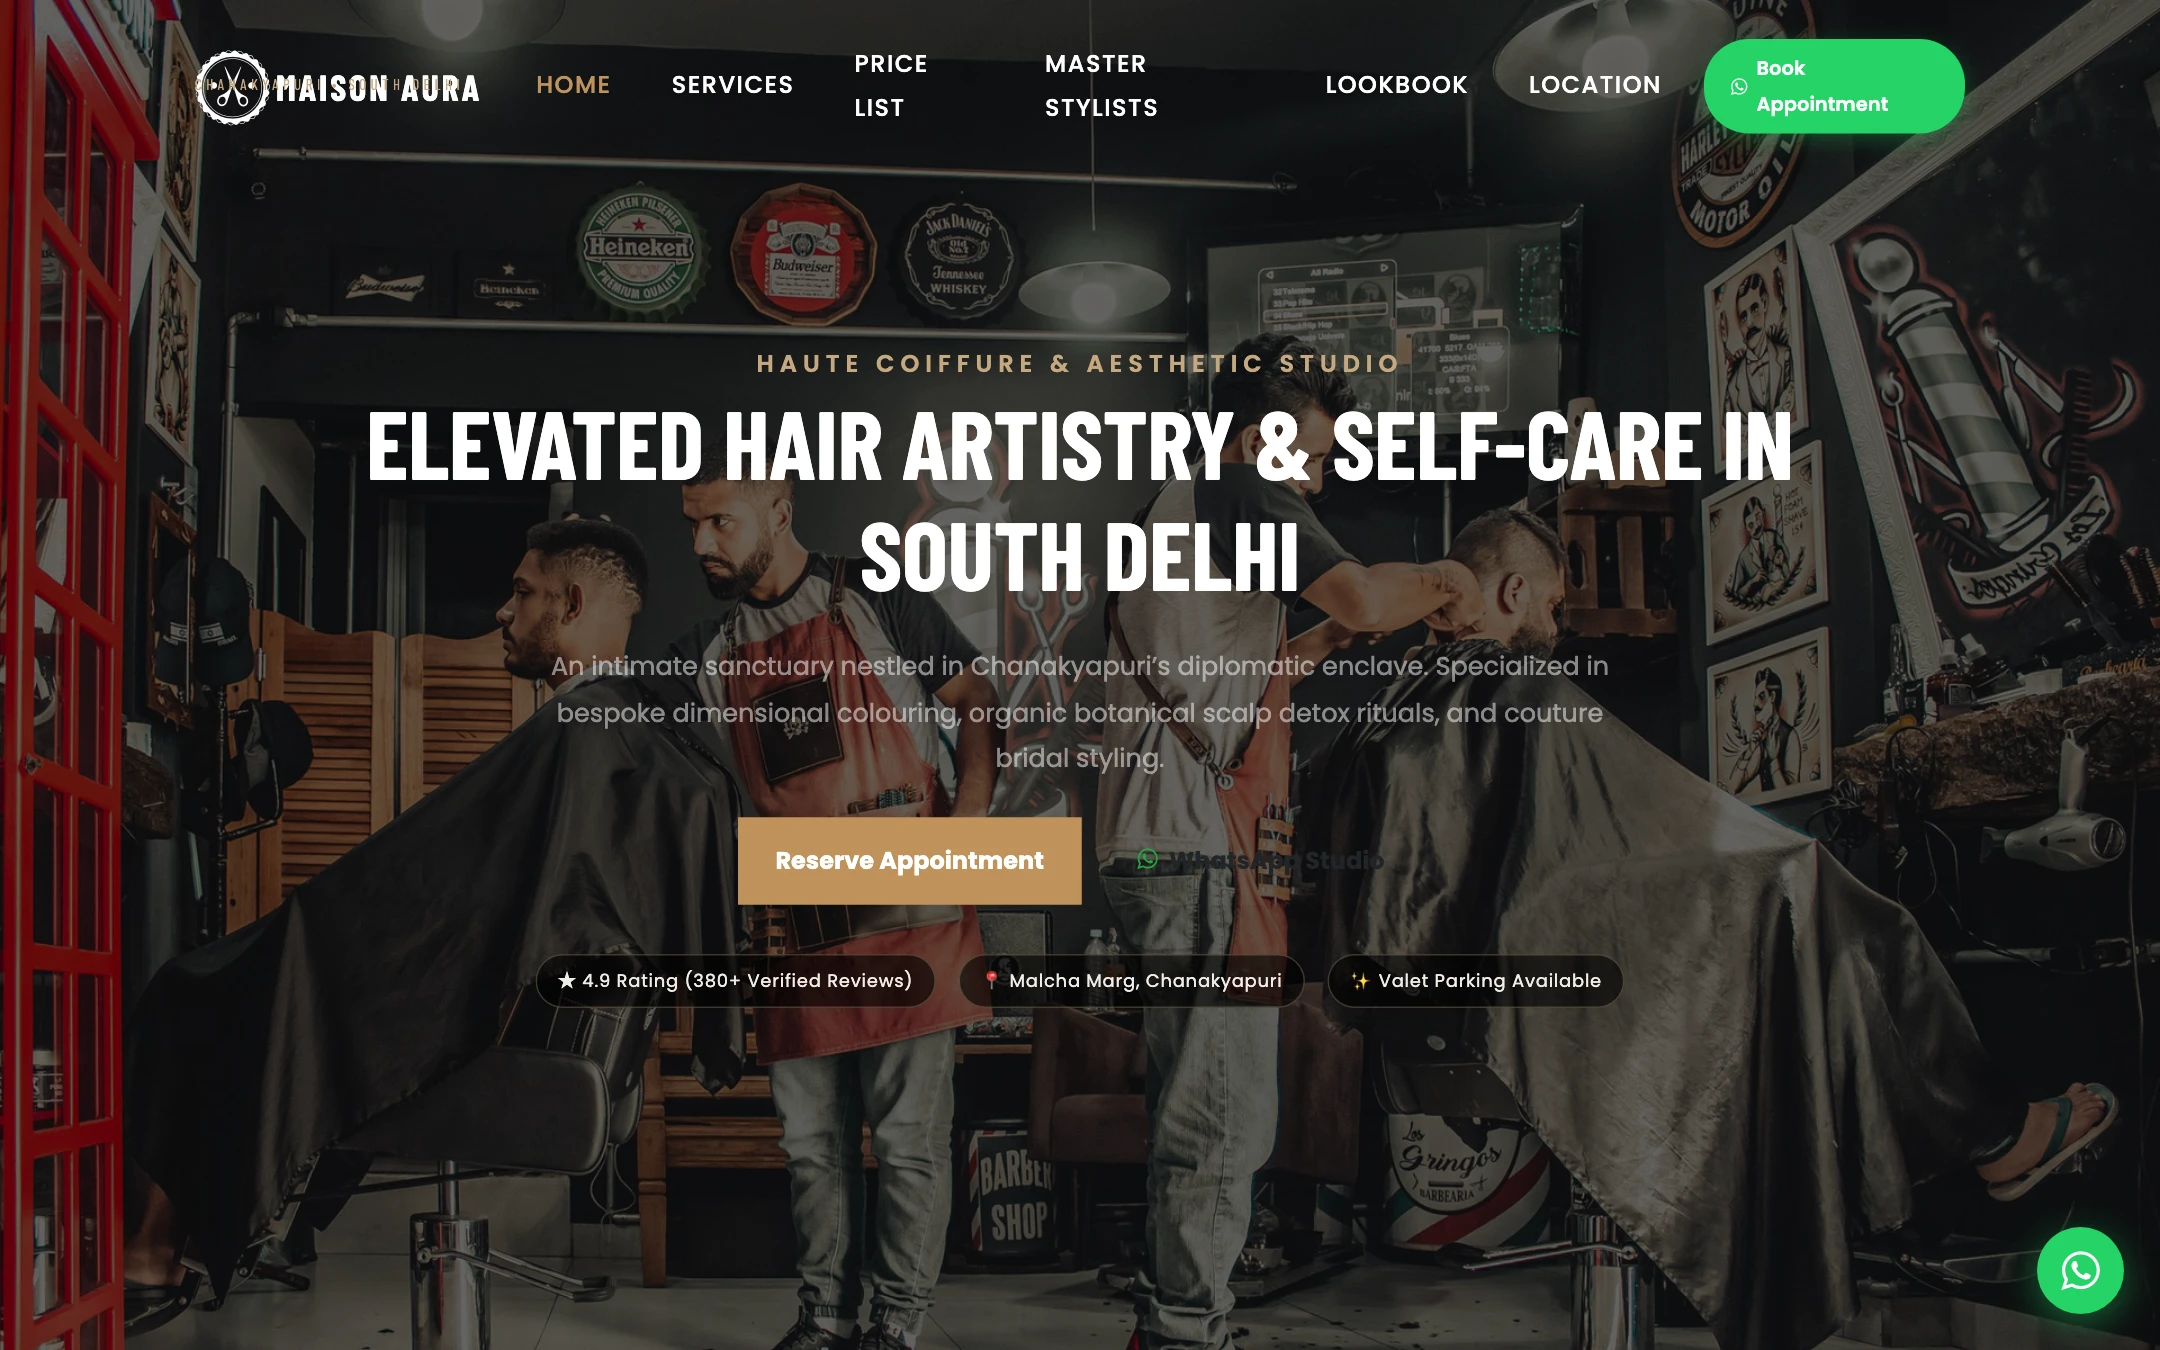
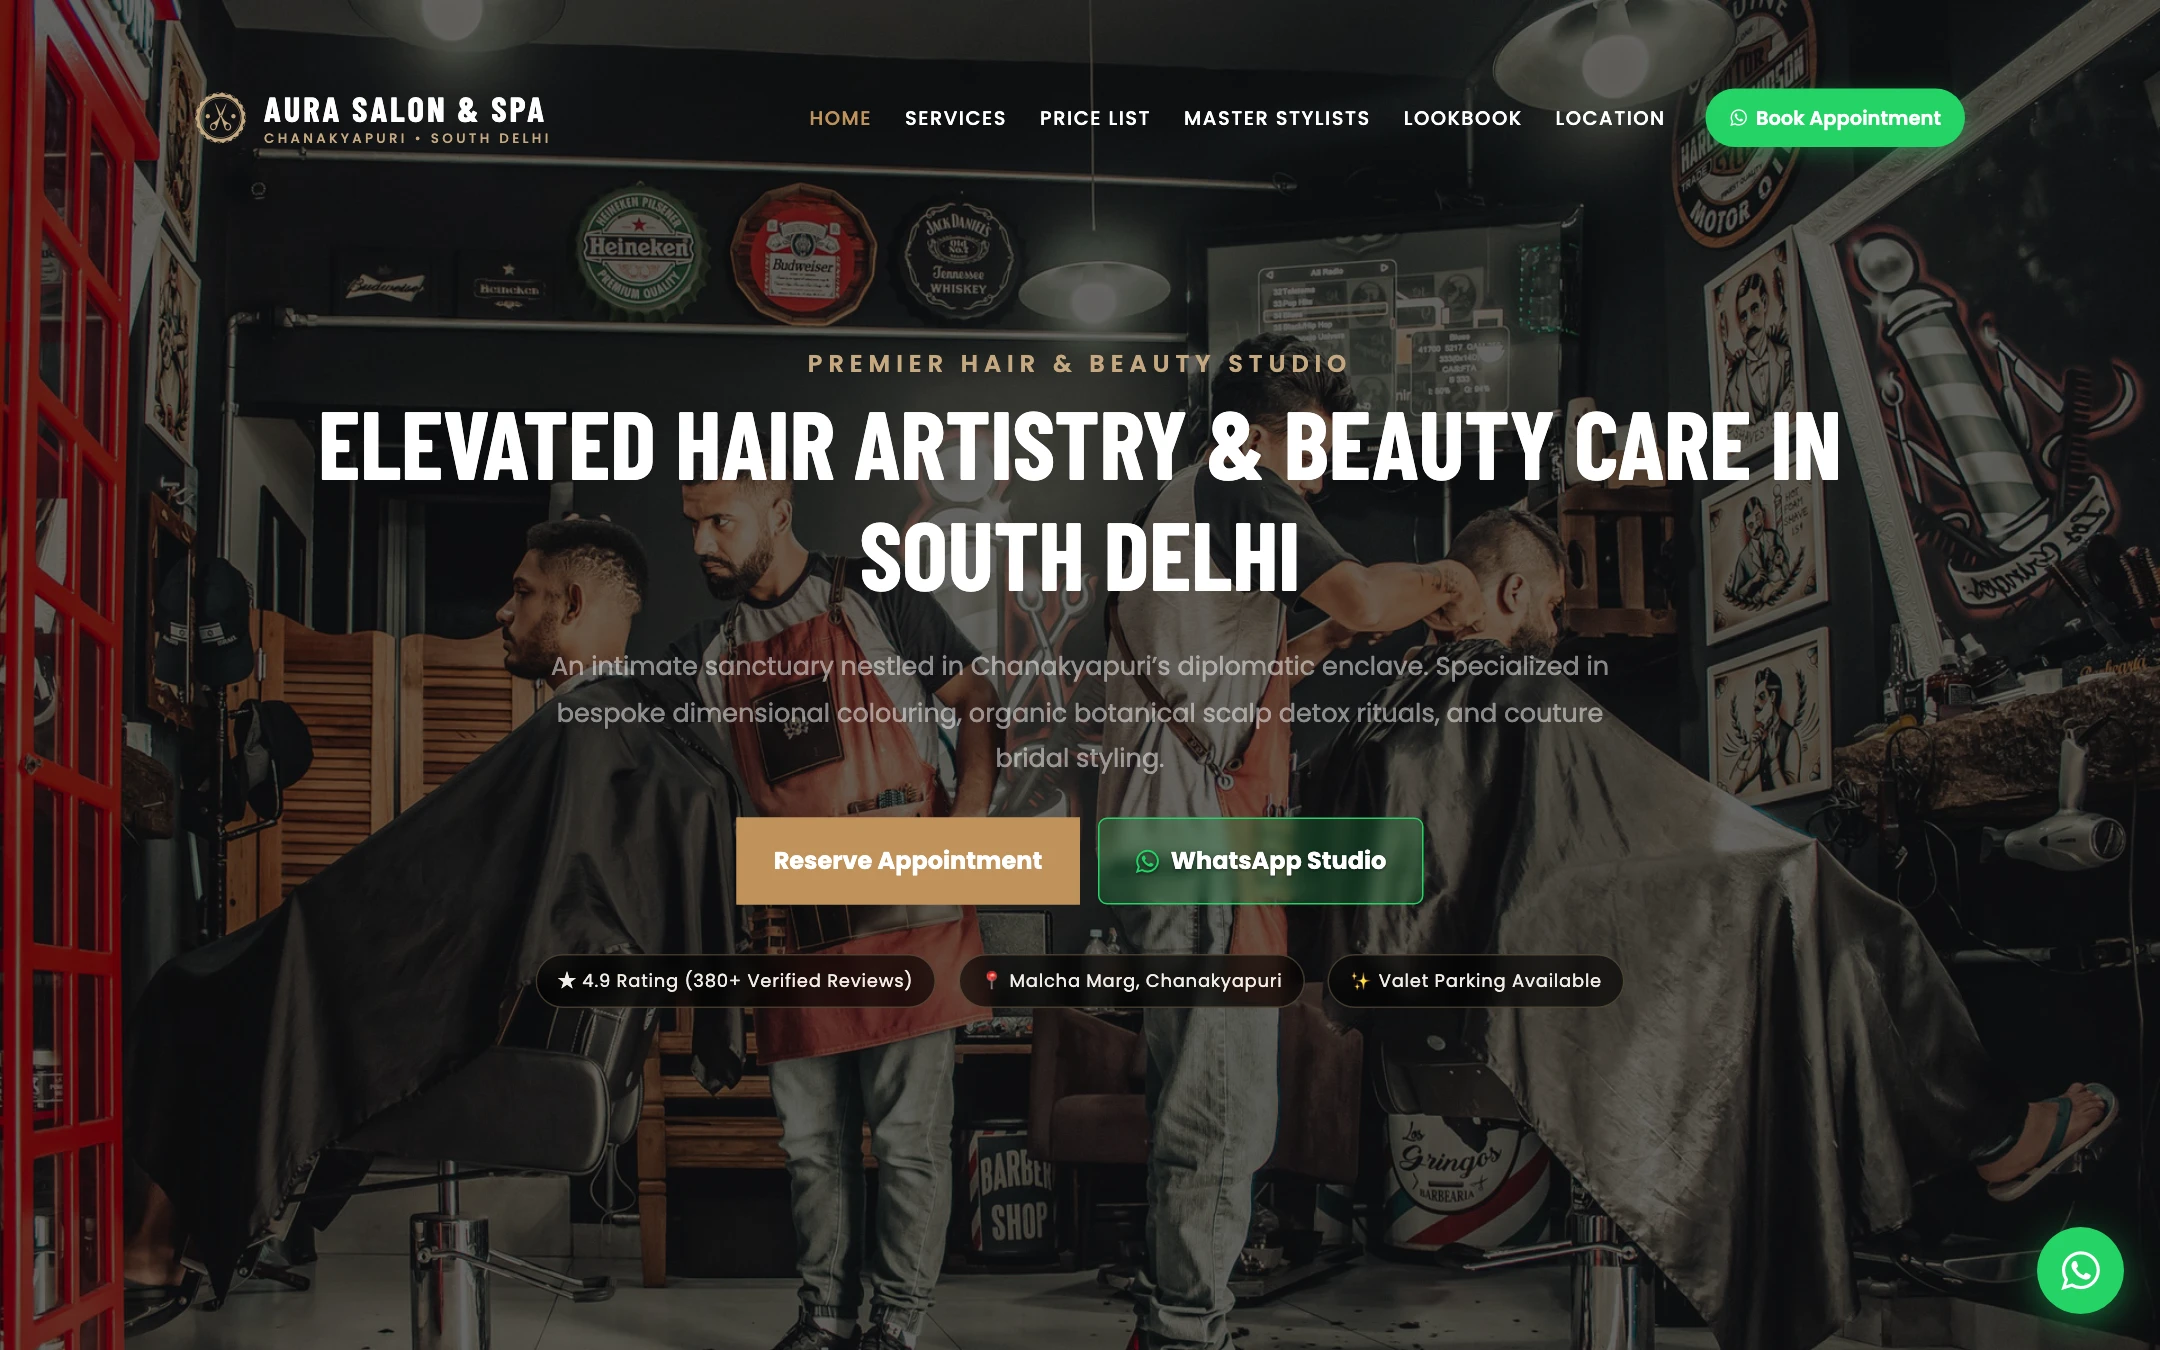
fix(thumbnails): re-capture and synchronize all demo preview thumbnails with updated brand names

diff --git a/demos/salon/index.html b/demos/salon/index.html
@@ -77,7 +77,7 @@
               </p>
 		  				<p class="mb-2">
                 <a href="#booking-section" class="btn btn-primary px-4 py-3 mr-2 mb-2 font-weight-bold">Reserve Appointment</a>
-                <a href="https://wa.me/918279696707?text=Hello%20Maison%20Aura,%20I%20would%20like%20to%20inquire%20about%20a%20salon%20appointment." target="_blank" class="btn btn-hero-whatsapp px-4 py-3 mb-2 font-weight-bold">
+                <a href="https://wa.me/918279696707?text=Hello%20Aura%20Salon,%20I%20would%20like%20to%20inquire%20about%20a%20salon%20appointment." target="_blank" class="btn btn-hero-whatsapp px-4 py-3 mb-2 font-weight-bold">
                   <span class="icon-whatsapp mr-1"></span> WhatsApp Studio
                 </a>
               </p>
@@ -99,7 +99,7 @@
 					<div class="col-md text-center d-flex align-items-stretch">
 						<div class="services-wrap d-flex align-items-center img" style="background-image: url(images/formen.jpg);">
 							<div class="text">
-								<h3>Men's Atelier</h3>
+								<h3>Men's Grooming Lounge</h3>
                 <p class="text-white-50 small mb-2">Bespoke scissor cuts, royal hot towel shaves &amp; beard sculpt</p>
 								<p><a href="#pricing-section" class="btn-custom">Explore Men's Menu <span class="ion-ios-arrow-round-forward"></span></a></p>
 							</div>
@@ -590,7 +590,7 @@
           <a href="../../index.html#contact-vardan" class="vardan-btn-primary">
             Discuss Your Salon's Website
           </a>
-          <a href="https://wa.me/918279696707?text=Hi%20Vardan,%20I%20saw%20your%20Maison%20Aura%20salon%20demo%20and%20would%20like%20to%20discuss%20a%20website%20for%20my%20business." target="_blank" class="vardan-btn-secondary">
+          <a href="https://wa.me/918279696707?text=Hi%20Vardan,%20I%20saw%20your%20Aura%20Salon%20salon%20demo%20and%20would%20like%20to%20discuss%20a%20website%20for%20my%20business." target="_blank" class="vardan-btn-secondary">
             <span class="icon-whatsapp mr-1"></span> WhatsApp Vardan Pal
           </a>
         </div>
@@ -601,7 +601,7 @@
     </section>
 
     <!-- Floating WhatsApp Button -->
-    <a href="https://wa.me/918279696707?text=Hi%20Maison%20Aura,%20I%20would%20like%20to%20book%20an%20appointment%20in%20Chanakyapuri." target="_blank" class="floating-whatsapp-btn" aria-label="Chat on WhatsApp">
+    <a href="https://wa.me/918279696707?text=Hi%20Aura%20Salon,%20I%20would%20like%20to%20book%20an%20appointment%20in%20Chanakyapuri." target="_blank" class="floating-whatsapp-btn" aria-label="Chat on WhatsApp">
       <span class="icon-whatsapp"></span>
       <span class="floating-whatsapp-tooltip">Chat with Reception</span>
     </a>

diff --git a/demos/interior/index.html b/demos/interior/index.html
@@ -147,7 +147,7 @@
         <div class="process-card">
           <div class="process-num">02</div>
           <h3 class="process-title serif-font">Material &amp; Millwork Curation</h3>
-          <p class="process-desc">Direct quarry-level stone selection, custom Italian veneer matching, and custom architectural metalwork built in our dedicated Delhi atelier.</p>
+          <p class="process-desc">Direct quarry-level stone selection, custom Italian veneer matching, and custom architectural metalwork built in our dedicated Delhi studio workshop.</p>
         </div>
         <div class="process-card">
           <div class="process-num">03</div>
@@ -235,7 +235,7 @@
   <!-- Studio Details -->
   <section class="section" id="studio">
     <div class="container" style="text-align: center; max-width: 600px;">
-      <span class="section-tag">VISIT OUR ATELIER</span>
+      <span class="section-tag">VISIT OUR DESIGN STUDIO</span>
       <h3 class="serif-font" style="font-size: 28px; margin-bottom: 12px;">Shanti Niketan Design Studio</h3>
       <p style="color: var(--text-muted); font-size: 15px; margin-bottom: 25px;">
         Studio 4, Shanti Niketan Marg, New Delhi 110021<br>

diff --git a/index.html b/index.html
@@ -182,13 +182,13 @@
         <div class="hero-stage-wrap reveal" id="heroStage" aria-label="Featured website demonstrations">
           <div class="hero-ambient-glow" aria-hidden="true"></div>
           <div class="hero-card-stack">
-            <!-- Back Tertiary Shot (Atelier Eleven) -->
+            <!-- Back Tertiary Shot (Studio Eleven) -->
             <div class="hero-shot-card hero-shot-tertiary">
               <div class="hero-shot-chrome">
                 <span class="dot"></span><span class="dot"></span><span class="dot"></span>
-                <span class="url-pill">atelier11.studio</span>
+                <span class="url-pill">studioeleven.in</span>
               </div>
-              <img src="assets/shots/interior.webp" alt="Atelier Eleven interior architecture website preview" width="1280" height="800" loading="lazy">
+              <img src="assets/shots/interior.webp" alt="Studio Eleven interior architecture website preview" width="1280" height="800" loading="lazy">
             </div>
 
             <!-- Top Primary Shot (Malcha Table) -->

diff --git a/demos/salon/css/delhi-custom.css b/demos/salon/css/delhi-custom.css
@@ -1,5 +1,5 @@
 /* ==========================================================================
-   South Delhi Digital - Maison Aura Custom Aesthetics
+   South Delhi Digital - Aura Salon & Spa Custom Aesthetics
    Crafted by Vardan Pal
    ========================================================================== */
 
@@ -365,7 +365,7 @@
 }
 
 /* ==========================================================================
-   Maison Aura - Luxury Booking Form & Field Overhauls
+   Aura Salon & Spa - Luxury Booking Form & Field Overhauls
    ========================================================================== */
 
 /* Prevent animation library from hiding critical content */

diff --git a/demos/clinic/index.html b/demos/clinic/index.html
@@ -70,7 +70,7 @@
             <div class="col-8 col-lg-3">
               <h2 class="mb-0 site-logo">
                 <a href="index.html" class="text-white font-weight-bold">
-                  Care Dental <span style="color: #20b2aa; font-weight: 300;">&amp; Clinic</span>
+                  Care Dental <span style="color: #20b2aa; font-weight: 300;">&amp; Skin Clinic</span>
                 </a>
               </h2>
               <span class="d-block small text-white-50" style="font-size: 10px; letter-spacing: 2px;">DENTAL &amp; AESTHETICS</span>

diff --git a/demos/interior/style.css b/demos/interior/style.css
@@ -1,5 +1,5 @@
 /* ==========================================================================
-   Atelier Eleven - Architecture & Luxury Residential Interiors
+   Studio Eleven - Architecture & Luxury Residential Interiors
    Design System by Vardan Pal | South Delhi Digital
    ========================================================================== */
 

diff --git a/demos/clinic/css/clinic-custom.css b/demos/clinic/css/clinic-custom.css
@@ -1,5 +1,5 @@
 /* ==========================================================================
-   South Delhi Digital - Aurelia Dental & Aesthetic Clinic
+   South Delhi Digital - Care Dental & Skin Clinic
    Crafted by Vardan Pal
    ========================================================================== */
 

diff --git a/docs/KAILASH_STUDIO_MASTER.md b/docs/KAILASH_STUDIO_MASTER.md
@@ -168,8 +168,10 @@ All 6 client websites are fully implemented, self-contained multi-page projects 
    Discovered that `bootstrap.min.css` was missing from `demos/salon/`, which caused grid collapse ('just HTML no CSS'). Overhauled `delhi-custom.css`, fixed overlapping brand logo headers on mobile, and rebuilt the appointment booking form with elevated dark inputs, gold borders, and high contrast.
 6. **Phase 6 — Brand Simplification & Alignment:**  
    Eliminated confusing foreign French/Latin jargon (e.g. *“Maison Aura”*, *“Haute Coiffure”*, *“Aurelia”*, *“Atelier Eleven”*). Standardized all 6 demos to match recognizable Indian industry brand models (*Aura Salon & Spa*, *Care Dental & Skin Clinic*, *Prime Estates*, *Studio Eleven*).
-7. **Phase 7 — Canonical Workspace Unification (Current):**  
+7. **Phase 7 — Canonical Workspace Unification:**  
    Replaced scratch duplicate folders with a clean direct symlink to the canonical developer repository, establishing a single source of truth for seamless pairing between Codex and Antigravity IDE.
+8. **Phase 8 — Demo Thumbnail & Brand Visual Consistency (Completed):**  
+   Re-captured all 6 high-resolution (2160×1350 WebP) demo preview thumbnails (`assets/shots/`) using headless Playwright CDP capture. All mockup frames across the main portfolio homepage now render the exact synchronized brand titles (*Care Dental & Skin Clinic*, *Aura Salon & Spa*, *Prime Estates*, *Studio Eleven*, *Studio Vows*, *Malcha Table*).
 
 ---
 
@@ -180,6 +182,7 @@ All 6 client websites are fully implemented, self-contained multi-page projects 
 - [x] **Production Deployment:** Live on Vercel at `https://south-delhi-web-studio.vercel.app/` with HTTP 200 on all routes.
 - [x] **Showcase Hub Consistency:** All case cards, interactive category tabs, chrome URLs, and copy match the demo websites 100%.
 - [x] **Salon Demo Overhaul:** `demos/salon/` now renders cleanly on mobile (375px) with high-contrast form fields, legible white text, custom dropdown chevrons, and zero header overlap.
+- [x] **Mockup Thumbnail Synchronization:** Re-rendered all 6 live browser mockup screenshots in `assets/shots/` with updated logos, headlines, and domain URLs.
 
 ### 🟡 In-Flight Tasks (Immediate Next Steps)
 1. **Systematic Mobile Optimization Across Remaining Demos:**

diff --git a/README.md b/README.md
@@ -35,11 +35,11 @@ south-delhi-digital/
 ├── style.css                    # Design system for master hub
 ├── README.md                    # Project documentation & deployment guide
 └── demos/
-    ├── salon/                   # Maison Aura – Haute Coiffure & Aesthetic Studio (Chanakyapuri)
+    ├── salon/                   # Aura Salon & Spa – Haute Coiffure & Aesthetic Studio (Chanakyapuri)
     │   ├── index.html
     │   ├── css/delhi-custom.css
     │   └── ...
-    ├── clinic/                  # Aurelia Clinic – Dental & Aesthetic Dermatology (Malcha Marg)
+    ├── clinic/                  # Care Dental & Skin Clinic – Dental & Aesthetic Dermatology (Malcha Marg)
     │   ├── index.html
     │   ├── css/clinic-custom.css
     │   └── ...
@@ -64,8 +64,8 @@ south-delhi-digital/
 
 | Category | Brand Name | Delhi Locality | Key Value & Conversion Features |
 | :--- | :--- | :--- | :--- |
-| **1. Salon / Beauty** | **Maison Aura** | Malcha Marg, Chanakyapuri | Transparent ₹ pricing (₹1,800 cut, ₹4,800 balayage), online chair reservation, instant WhatsApp confirmation. |
-| **2. Clinic / Dental** | **Aurelia Clinic** | Malcha Marg, Chanakyapuri | AIIMS-trained doctors, 3D intraoral scans, hospital-grade Class-B sterilization, consultation booking. |
+| **1. Salon / Beauty** | **Aura Salon & Spa** | Malcha Marg, Chanakyapuri | Transparent ₹ pricing (₹1,800 cut, ₹4,800 balayage), online chair reservation, instant WhatsApp confirmation. |
+| **2. Clinic / Dental** | **Care Dental & Skin Clinic** | Malcha Marg, Chanakyapuri | AIIMS-trained doctors, 3D intraoral scans, hospital-grade Class-B sterilization, consultation booking. |
 | **3. Restaurant / Bar** | **Malcha Table** | 11 Malcha Marg Shopping Centre | Heritage clay-oven gastronomy, seasonal Himalayan morels, commission-free WhatsApp table reservations. |
 | **4. Real Estate** | **South Delhi Prime Estates** | Yashwant Place, Chanakyapuri | 4 BHK builder floors & villas (₹7.9 Cr - ₹28 Cr), verified clear titles, confidential site viewing bookings. |
 | **5. Architecture** | **Atelier Eleven** | Shanti Niketan Marg | Minimalist editorial travertine residences, 3-step turnkey roadmap, private studio consultation scheduler. |
